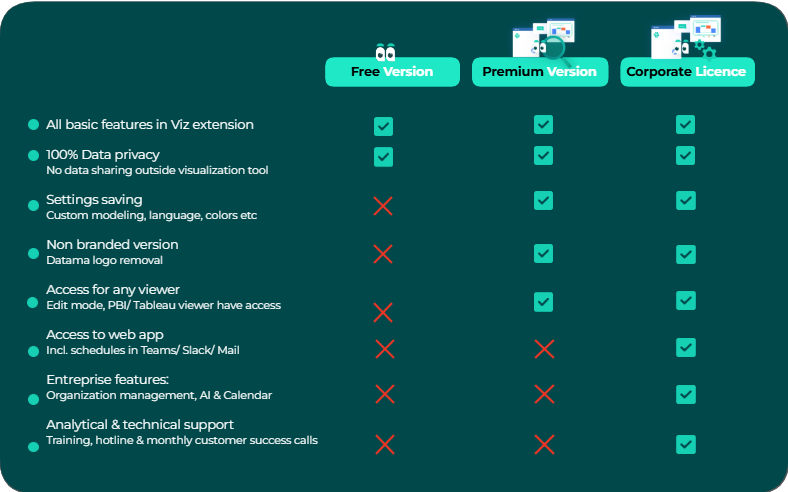
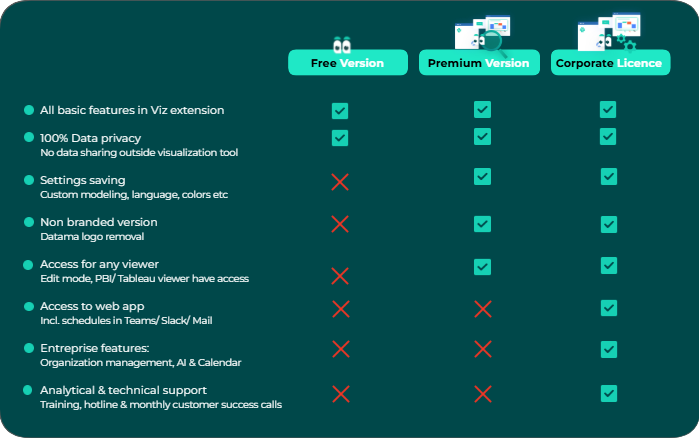
pricing plan refait

diff --git a/extensions/how-to-use/pricing_plan_tableau.md b/extensions/how-to-use/pricing_plan_tableau.md
@@ -1,7 +1,7 @@
 ---
-title: Pricing plan of Datama Compare in Tableau
+title: Pricing plan of Datama extensions in Tableau
 layout: new-page
-scope: Datama/light/compare
+scope: Datama/light
 keywords: Tableau dashboard Pricing Plan
 ---
 
@@ -50,6 +50,10 @@ For those who has a whole analytics team dedicated to the subject, this plan is 
 - **Analytical & technical support**: Get the help you need with dedicated support from our team with training, monthly call, chat....
 
 <br>
+
+Here are somme pricing ditails for different options.
+
+<center><img style="width:50%" src="{{site.url}}/{{site.baseurl}}/extensions/assets/pricing_details.png" /></center>
 
 <div class="info-box">
  <strong>Note</strong>: For more information on each plan's features and to determine which is the best fit for your organization, please  <a target="_blank" href="https://Datama.io/lets-talk/">contact</a> </div>

diff --git a/extensions/how-to-use/pricing_plan_looker.md b/extensions/how-to-use/pricing_plan_looker.md
@@ -1,7 +1,7 @@
 ---
-title: Pricing plan of Datama Compare in Looker Studio
+title: Pricing plan of Datama extensions in Looker Studio
 layout: new-page
-scope: Datama/light/compare
+scope: Datama/light
 keywords: Looker Studio Pricing Plan
 ---
 
@@ -58,6 +58,9 @@ For those who has a whole analytics team dedicated to the subject, this plan is 
 
 <br/>
 
+Here are somme pricing ditails for different options.
+
+<center><img style="width:50%" src="{{site.url}}/{{site.baseurl}}/extensions/assets/pricing_details.png" /></center>
 
 <div class="info-box">
  <strong>Note</strong>: For more information on each plan's features and to determine which is the best fit for your organization, please  <a target="_blank" href="https://Datama.io/lets-talk/">contact</a> </div>

diff --git a/extensions/how-to-use/pricing_plan_pbi.md b/extensions/how-to-use/pricing_plan_pbi.md
@@ -1,7 +1,7 @@
 ---
-title: Pricing plan of Datama Compare in Power BI
+title: Pricing plan of Datama extensions in Power BI
 layout: new-page
-scope: Datama/light/compare
+scope: Datama/light
 keywords: PowerBI power bi Pricing Plan
 ---
 
@@ -52,6 +52,9 @@ For those who has a whole analytics team dedicated to the subject, this plan is 
 
 <br/>
 
+Here are somme pricing ditails for different options.
+
+<center><img style="width:50%" src="{{site.url}}/{{site.baseurl}}/extensions/assets/pricing_details.png" /></center>
 
 <div class="info-box">
  <strong>Note</strong>: For more information on each plan's features and to determine which is the best fit for your organization, please  <a target="_blank" href="https://Datama.io/lets-talk/">contact</a> </div>

diff --git a/extensions/how-to-use/pricing_plan_qlik.md b/extensions/how-to-use/pricing_plan_qlik.md
@@ -1,7 +1,7 @@
 ---
-title: Pricing plan of Datama Compare in Qlik
+title: Pricing plan of Datama extensions in Qlik
 layout: new-page
-scope: Datama/light/compare
+scope: Datama/light
 keywords: Qlik Pricing Plan
 ---
 
@@ -55,7 +55,9 @@ For those who has a whole analytics team dedicated to the subject, this plan is 
 
 <br/>
 
----
+Here are somme pricing ditails for different options.
+
+<center><img style="width:50%" src="{{site.url}}/{{site.baseurl}}/extensions/assets/pricing_details.png" /></center>
 
 <div class="info-box">
  <strong>Note</strong>: For more information on each plan's features and to determine which is the best fit for your organization, please  <a target="_blank" href="https://Datama.io/lets-talk/">contact</a> </div>
